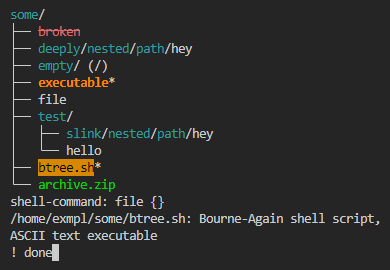
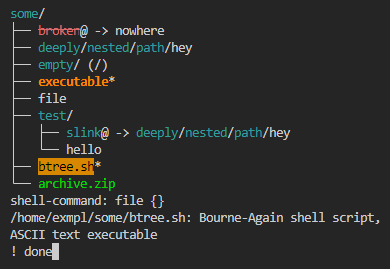
minor fixes * updated screenshot * do not free broken link target ! (fancy) -j for link to dir broken (but the sc was fine fsr...) ! crashes on reloading link to dir ! ^R does not keep cursor (moved to root)

diff --git a/fancy.c b/fancy.c
@@ -58,7 +58,7 @@ static struct {
         .so="01;35",
         .bd="40;33;01",
         .cd="40;33;01",
-        .or="40;31;01",
+        .or="40;31;09",
         // .mi="22;39;49",
         .ex="01;32",
         .sel="7",
@@ -135,7 +135,7 @@ void fancy_node(struct Node* node) {
     if (flags.classify)
         apply_decorations(node);
 
-    if (flags.join && Type_DIR == node->type && 1 == node->count && node->as.dir.unfolded) {
+    if (flags.join && 1 == node->count && node->as.dir.unfolded) {
         if (!flags.classify) putstr("/");
     } else {
         if (is_tty) putstr("\r");

diff --git a/commands.h b/commands.h
@@ -302,9 +302,8 @@ static bool c_child(void) {
     if (!c_unfold()) return false;
     struct Node* d = cursor;
     if (Type_LNK == d->type) d = d->as.link.tail;
-    if (0 == d->count) return false;
-    cursor = d->as.dir.children[0];
-    return true;
+    if (0 != d->count) cursor = d->as.dir.children[0];
+    return true; // YYY: even when no child..?
 }
 
 static bool c_firstchild(void) {

diff --git a/treest.c b/treest.c
@@ -66,7 +66,7 @@ void dir_free(struct Node* node) {
 
 void lnk_free(struct Node* node) {
     free(node->as.link.readpath);
-    node_free(node->as.link.to);
+    if (node->as.link.to) node_free(node->as.link.to);
     free(node->as.link.to);
     node->as.link.readpath = NULL;
     node->as.link.to = NULL;
